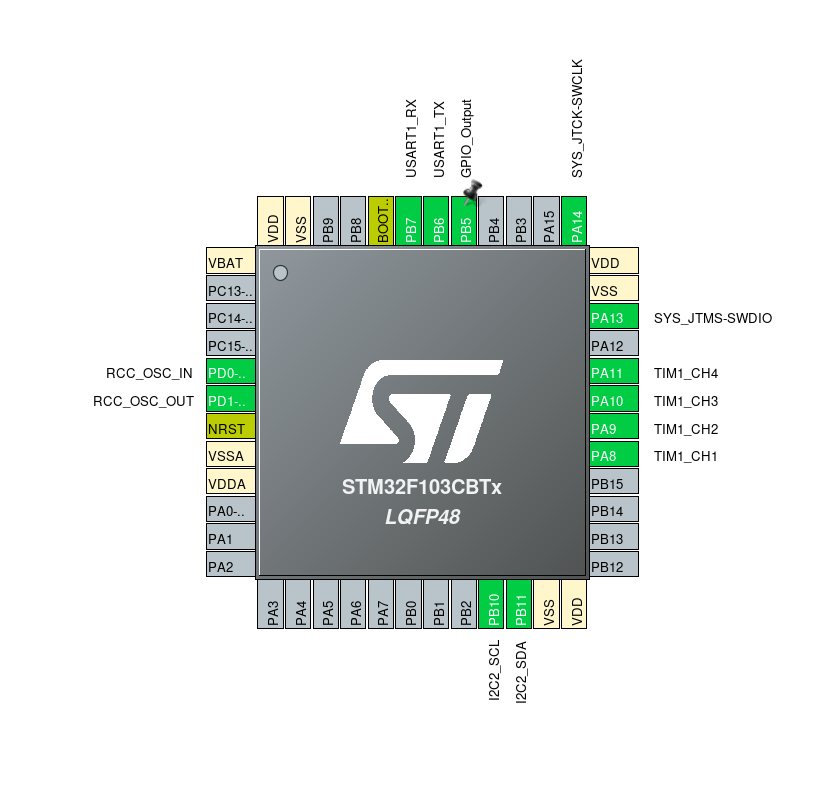
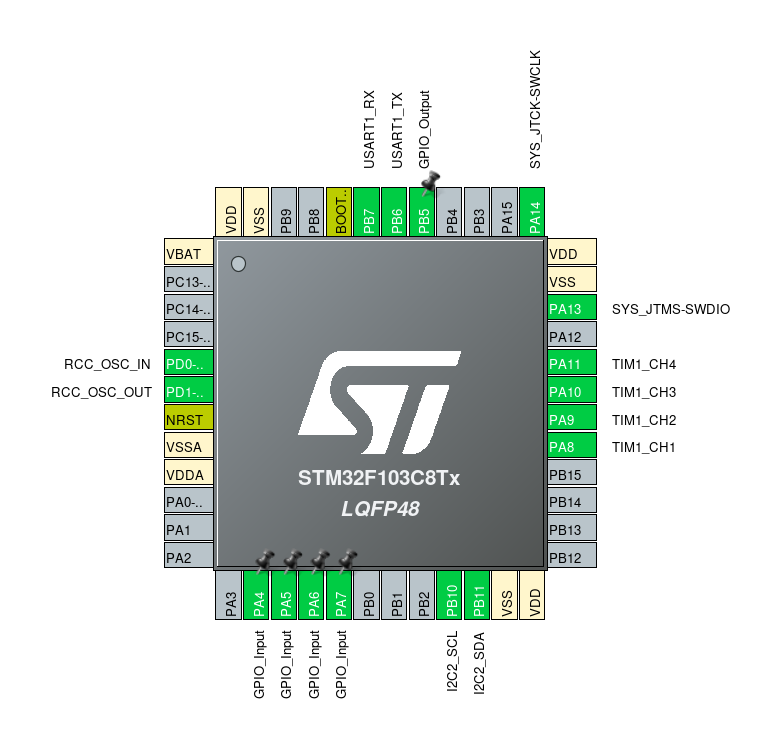
add modbus address config pins

Changed region(s): [[0.0928, 0.0609, 0.9588, 0.9139], [0.3711, 0.457, 0.6186, 0.7007], [0.0619, 0.5179, 0.0928, 0.5483]]

diff --git a/src/main.rs b/src/main.rs
@@ -108,6 +108,21 @@ mod app {
 
         //---------------------------------------------------------------------
 
+        let addr_pins = (
+            gpioa.pa4.into_pull_up_input(&mut gpioa.crl),
+            gpioa.pa5.into_pull_up_input(&mut gpioa.crl),
+            gpioa.pa6.into_pull_up_input(&mut gpioa.crl),
+            gpioa.pa7.into_pull_up_input(&mut gpioa.crl),
+        );
+
+        let modbus_addr = config::MODBUS_ADDR
+            + (((addr_pins.0.is_low() as u8) << config::ADDR_BITS[0])
+                | ((addr_pins.1.is_low() as u8) << config::ADDR_BITS[1])
+                | ((addr_pins.2.is_low() as u8) << config::ADDR_BITS[2])
+                | ((addr_pins.3.is_low() as u8) << config::ADDR_BITS[3]));
+
+        //---------------------------------------------------------------------
+
         let tx = gpiob.pb6.into_alternate_push_pull(&mut gpiob.crl);
         let rx = gpiob.pb7;
         let re_de = gpiob
@@ -141,7 +156,7 @@ mod app {
 
         let rtu = unsafe {
             libremodbus_rs::Rtu::init(
-                config::MODBUS_ADDR,
+                modbus_addr,
                 UART1.as_mut().unwrap_unchecked(),
                 config::RS485_BOUD_RATE,
                 MODBUS_TIMER.as_mut().unwrap_unchecked(),

diff --git a/src/config.rs b/src/config.rs
@@ -6,6 +6,8 @@ pub const MB_DEV_ID: u16 = 0xDBFB;
 pub const RS485_BOUD_RATE: u32 = 57_600;
 pub const MODBUS_ADDR: u8 = 1;
 
+pub const ADDR_BITS: [u8; 4] = [1, 2, 3, 7];
+
 //-----------------------------------------------------------------------------
 
 pub const SYSTICK_RATE_HZ: u32 = 1_000;
